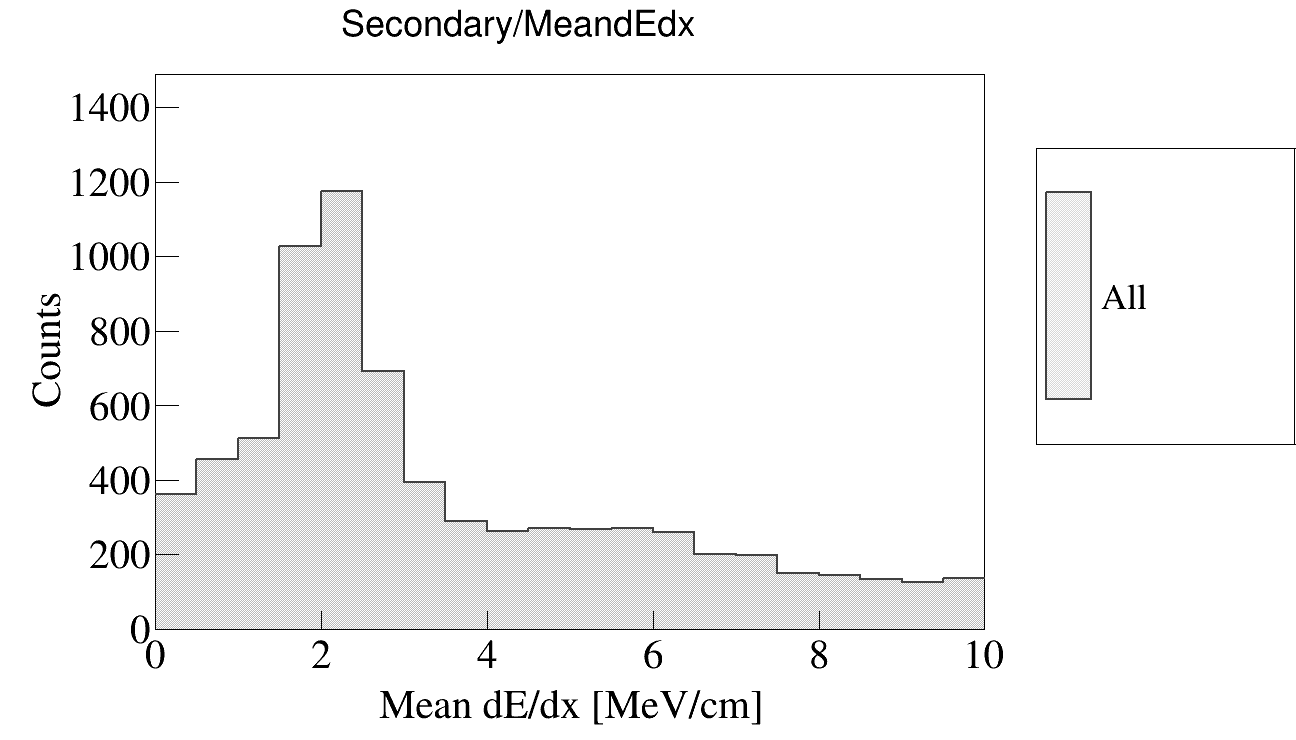
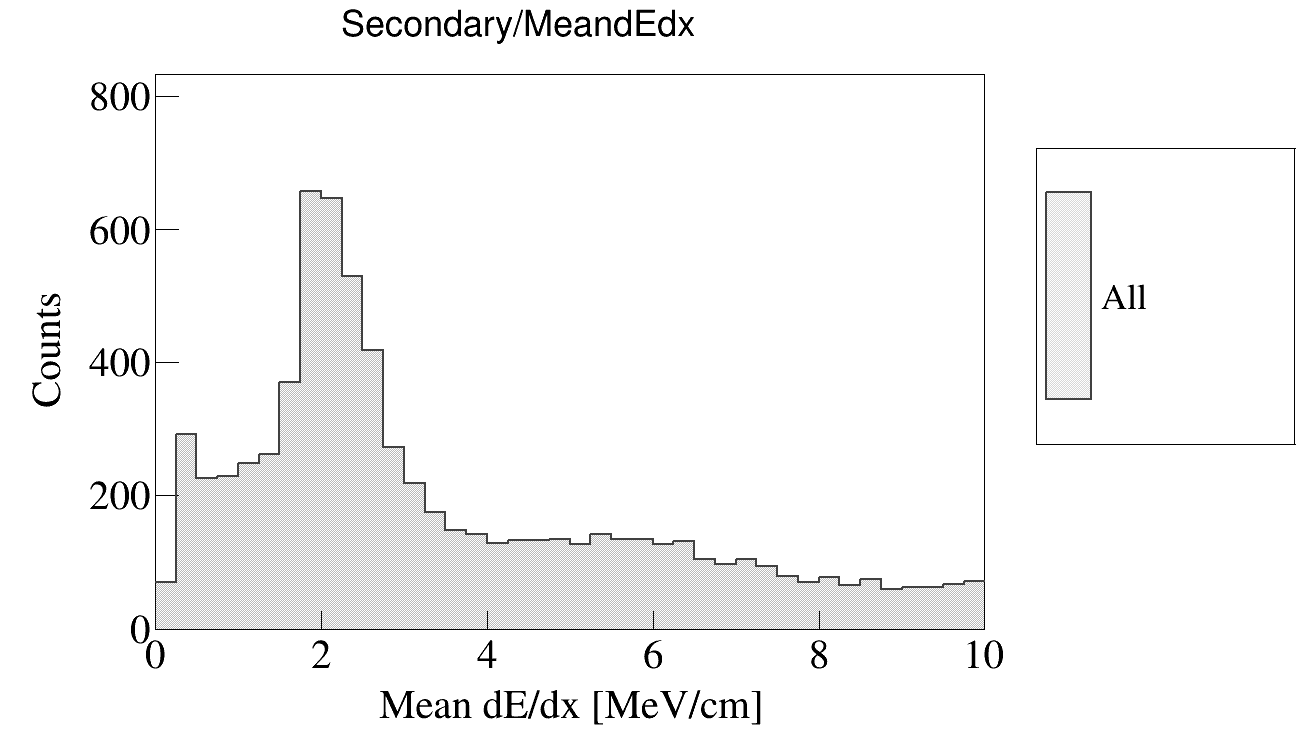
Add mean dEdx plots

diff --git a/DataClassify.cc b/DataClassify.cc
@@ -150,6 +150,11 @@ void DataClassify() {
     TH1D* hMCTrackdEdxMuon = dynamic_cast<TH1D*>(fNom->Get("hTrackdEdxMuon"));
     TH1D* hMCTrackdEdxElectron = dynamic_cast<TH1D*>(fNom->Get("hTrackdEdxElectron"));
 
+    // Secondary track mean dE/dx
+    TH1D* hMCMeandEdxSecondaryPions   = dynamic_cast<TH1D*>(fNom->Get("hMeandEdxSecondaryPions"));
+    TH1D* hMCMeandEdxSecondaryProtons = dynamic_cast<TH1D*>(fNom->Get("hMeandEdxSecondaryProton"));
+    TH1D* hMCMeandEdxSecondaryOther   = dynamic_cast<TH1D*>(fNom->Get("hMeandEdxSecondaryOther"));
+
     ///////////////////
     // Load branches //
     ///////////////////
@@ -252,6 +257,9 @@ void DataClassify() {
     // Pitch and dE/dx
     TH1D* hTrackPitch = new TH1D("hTrackPitch", "hTrackPitch;;", 40, 0.2, 0.8);
     TH1D* hTrackdEdx  = new TH1D("hTrackdEdx", "hTrackdEdx;;", 48, 0, 6);
+
+    // Mean dE/dx for secondary tracks
+    TH1D* hMeanSecondarydEdx = new TH1D("hMeanSecondarydEdx", "hMeanSecondarydEdx;;", 40, 0, 10);
 
     // Wire chamber kinetic energy (before energy loss correction)
     TH1D* hWCKE = new TH1D("hWCKE", "hWCKE;;", NUM_BINS_KE_FINE, ARRAY_KE_FINE_BINS.data());
@@ -704,7 +712,7 @@ void DataClassify() {
         int numberOfSecondary           = 0;
         int numberOfSecondaryNearVertex = 0;
 
-        std::cout << "Break point: (" << breakPointX << ", " << breakPointY << ", " << breakPointZ << ")" << std::endl;
+        // std::cout << "Break point: (" << breakPointX << ", " << breakPointY << ", " << breakPointZ << ")" << std::endl;
         for (size_t trk_idx = 0; trk_idx < ev.recoBeginX.size(); ++trk_idx) {
             if (trkWCtoTPCMatch[trk_idx]) continue;
 
@@ -728,7 +736,7 @@ void DataClassify() {
                 pow(ev.recoBeginZ.at(trk_idx) - ev.recoEndZ.at(trk_idx), 2)
             );
 
-            std::cout << "    " << "Secondary track " << trk_idx << ": length = " << thisTrackLength << ", distance from start = " << distanceFromStart << ", distance from end = " << distanceFromEnd << std::endl;
+            // std::cout << "    " << "Secondary track " << trk_idx << ": length = " << thisTrackLength << ", distance from start = " << distanceFromStart << ", distance from end = " << distanceFromEnd << std::endl;
 
             if ((distanceFromStart < VERTEX_RADIUS || distanceFromEnd < VERTEX_RADIUS)) {
                 numberOfSecondaryNearVertex++;
@@ -746,7 +754,7 @@ void DataClassify() {
                 double protonChi2        = computeReducedChi2(gProton, secondaryResR, secondaryDEDX, secondaryReversed, secondaryDEDX.size(), nRemoveOutliers, nRemoveEnds);
                 double secondaryMeanDEDX = meanDEDX(secondaryDEDX, secondaryReversed, MEAN_DEDX_NUM_TRAJ_POINTS);
 
-                std::cout << "        Pion chi^2: " << pionChi2 << ", Proton chi^2: " << protonChi2 << ", Mean dE/dx: " << secondaryMeanDEDX << std::endl;
+                // std::cout << "        Pion chi^2: " << pionChi2 << ", Proton chi^2: " << protonChi2 << ", Mean dE/dx: " << secondaryMeanDEDX << std::endl;
 
                 // First, try classifying track using chi^2 fits
                 if ((pionChi2 < PION_CHI2_PION_VALUE) && (protonChi2 > PROTON_CHI2_PION_VALUE)) {
@@ -763,15 +771,16 @@ void DataClassify() {
                     } else {
                         otherTaggedProton++;
                     }
+                    hMeanSecondarydEdx->Fill(secondaryMeanDEDX);
                 }
             }
         }
 
-        std::cout << "Number of secondary tracks: " << numberOfSecondary << std::endl;
-        std::cout << "Number of secondary tracks near vertex: " << numberOfSecondaryNearVertex << std::endl;
-        std::cout << "Classified as pion: " << secondaryTaggedPion << ", Classified as proton: " << secondaryTaggedProton << ", Not classified with chi^2: " << secondaryTaggedOther << std::endl;
-        std::cout << "Of those not classified with chi^2, classified as pion with mean dE/dx: " << otherTaggedPion << ", classified as proton with mean dE/dx: " << otherTaggedProton << std::endl;
-        std::cout << std::endl;
+        // std::cout << "Number of secondary tracks: " << numberOfSecondary << std::endl;
+        // std::cout << "Number of secondary tracks near vertex: " << numberOfSecondaryNearVertex << std::endl;
+        // std::cout << "Classified as pion: " << secondaryTaggedPion << ", Classified as proton: " << secondaryTaggedProton << ", Not classified with chi^2: " << secondaryTaggedOther << std::endl;
+        // std::cout << "Of those not classified with chi^2, classified as pion with mean dE/dx: " << otherTaggedPion << ", classified as proton with mean dE/dx: " << otherTaggedProton << std::endl;
+        // std::cout << std::endl;
 
         // For particles where we stitched, we also need to analyze the second part of the primary track
         bool newSecondaryPion = false;
@@ -1058,6 +1067,20 @@ void DataClassify() {
         hMCTotalInteracting
     };
 
+    std::vector<TH1*> scaleByPre = {
+        hMCFrontFaceKEPion, hMCFrontFaceKEElectron, hMCFrontFaceKEMuon,
+        hMCWCKEPion, hMCWCKEMuon, hMCWCKEElectron
+    };
+
+    auto scaleAll = [](const std::vector<TH1*>& hists, double factor) {
+        for (auto* h : hists) {
+            h->Scale(factor);
+        }
+    };
+
+    scaleAll(scaleByNormal, SCALING_FACTOR);
+    scaleAll(scaleByPre, SCALING_FACTOR_PRE);
+
     // Area normalize these
     double mcPitchTotal = hMCTrackPitchPion->Integral() + hMCTrackPitchMuon->Integral() + hMCTrackPitchElectron->Integral();
     double scalePitch   = hTrackPitch->Integral() / mcPitchTotal;
@@ -1073,19 +1096,13 @@ void DataClassify() {
     hMCTrackdEdxMuon->Scale(scaleDedx);
     hMCTrackdEdxElectron->Scale(scaleDedx);
 
-    std::vector<TH1*> scaleByPre = {
-        hMCFrontFaceKEPion, hMCFrontFaceKEElectron, hMCFrontFaceKEMuon,
-        hMCWCKEPion, hMCWCKEMuon, hMCWCKEElectron
-    };
+    // Area normalize these as well
+    double mcMeanDedxTotal = hMCMeandEdxSecondaryPions->Integral() + hMCMeandEdxSecondaryProtons->Integral() + hMCMeandEdxSecondaryOther->Integral();
+    double scaleMeanDedx   = hMeanSecondarydEdx->Integral() / mcMeanDedxTotal;
 
-    auto scaleAll = [](const std::vector<TH1*>& hists, double factor) {
-        for (auto* h : hists) {
-            h->Scale(factor);
-        }
-    };
-
-    scaleAll(scaleByNormal, SCALING_FACTOR);
-    scaleAll(scaleByPre, SCALING_FACTOR_PRE);
+    hMCMeandEdxSecondaryPions->Scale(scaleMeanDedx);
+    hMCMeandEdxSecondaryProtons->Scale(scaleMeanDedx);
+    hMCMeandEdxSecondaryOther->Scale(scaleMeanDedx);
 
     ///////////////////////////////////
     // Save histograms for unfolding //
@@ -1205,7 +1222,10 @@ void DataClassify() {
 
         // Track calorimetry
         hTrackPitch,
-        hTrackdEdx
+        hTrackdEdx,
+
+        // Secondary track mean dE/dx
+        hMeanSecondarydEdx
     };
 
     std::vector<std::vector<TH1*>> PlotMCGroups = {
@@ -1233,7 +1253,10 @@ void DataClassify() {
 
         // Track calorimetry
         {hMCTrackPitchPion, hMCTrackPitchMuon, hMCTrackPitchElectron},
-        {hMCTrackdEdxPion, hMCTrackdEdxMuon, hMCTrackdEdxElectron}
+        {hMCTrackdEdxPion, hMCTrackdEdxMuon, hMCTrackdEdxElectron},
+
+        // Secondary track mean dE/dx
+        {hMCMeandEdxSecondaryPions, hMCMeandEdxSecondaryProtons, hMCMeandEdxSecondaryOther}
     };
 
     std::vector<std::vector<TString>> PlotMCLabelGroups = {
@@ -1261,7 +1284,10 @@ void DataClassify() {
 
         // Track calorimetry
         {"Pion", "Muon", "Electron"},
-        {"Pion", "Muon", "Electron"}
+        {"Pion", "Muon", "Electron"},
+
+        // Secondary track mean dE/dx
+        {"Pions", "Protons", "Others"}
     };
 
     std::vector<TString> PlotName = {
@@ -1289,7 +1315,10 @@ void DataClassify() {
 
         // Track calorimetry
         "Calorimetry/TrackPitch",
-        "Calorimetry/TrackdEdx"
+        "Calorimetry/TrackdEdx",
+
+        // Secondary track mean dE/dx
+        "Calorimetry/MeanSecondarydEdx"
     };
 
     std::vector<TString> PlotTitle = {
@@ -1317,7 +1346,10 @@ void DataClassify() {
 
         // Track calorimetry
         "Track Pitch",
-        "Track dE/dx"
+        "Track dE/dx",
+
+        // Secondary track mean dE/dx
+        "Mean dE/dx of Secondary Tracks"
     };
 
     std::vector<TString> XLabels = {
@@ -1345,7 +1377,10 @@ void DataClassify() {
 
         // Track calorimetry
         "Pitch [cm]",
-        "dE/dx [MeV/cm]"
+        "dE/dx [MeV/cm]",
+
+        // Secondary track mean dE/dx
+        "Mean dE/dx [MeV/cm]"
     };
 
     std::vector<TString> YLabels = {
@@ -1373,6 +1408,9 @@ void DataClassify() {
 
         // Track calorimetry
         "Counts",
+        "Counts",
+
+        // Secondary track mean dE/dx
         "Counts"
     };
 

diff --git a/RecoClassify3Cat.cc b/RecoClassify3Cat.cc
@@ -383,10 +383,10 @@ void RecoClassify3Cat() {
     // Mean dE/dx secondary tracks //
     /////////////////////////////////
 
-    TH1D* hMeandEdxSecondaryTracks = new TH1D("hMeandEdxSecondaryTracks", "hMeandEdxSecondaryTracks", 20, 0, 10);
-    TH1D* hMeandEdxSecondaryPions  = new TH1D("hMeandEdxSecondaryPions", "hMeandEdxSecondaryPions", 20, 0, 10);
-    TH1D* hMeandEdxSecondaryProton = new TH1D("hMeandEdxSecondaryProton", "hMeandEdxSecondaryProton", 20, 0, 10);
-    TH1D* hMeandEdxSecondaryOther  = new TH1D("hMeandEdxSecondaryOther", "hMeandEdxSecondaryOther", 20, 0, 10);
+    TH1D* hMeandEdxSecondaryTracks = new TH1D("hMeandEdxSecondaryTracks", "hMeandEdxSecondaryTracks", 40, 0, 10);
+    TH1D* hMeandEdxSecondaryPions  = new TH1D("hMeandEdxSecondaryPions", "hMeandEdxSecondaryPions", 40, 0, 10);
+    TH1D* hMeandEdxSecondaryProton = new TH1D("hMeandEdxSecondaryProton", "hMeandEdxSecondaryProton", 40, 0, 10);
+    TH1D* hMeandEdxSecondaryOther  = new TH1D("hMeandEdxSecondaryOther", "hMeandEdxSecondaryOther", 40, 0, 10);
 
     ///////////////////////////
     // Track pitch and dE/dx //
